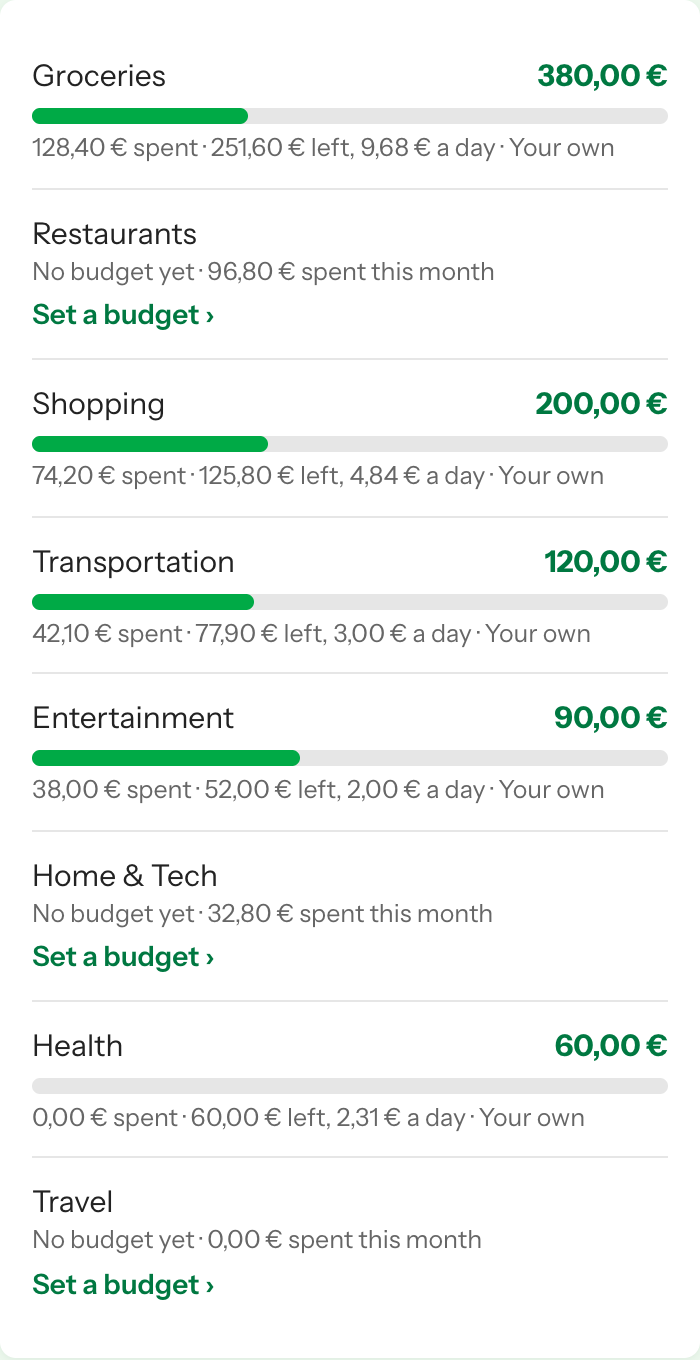
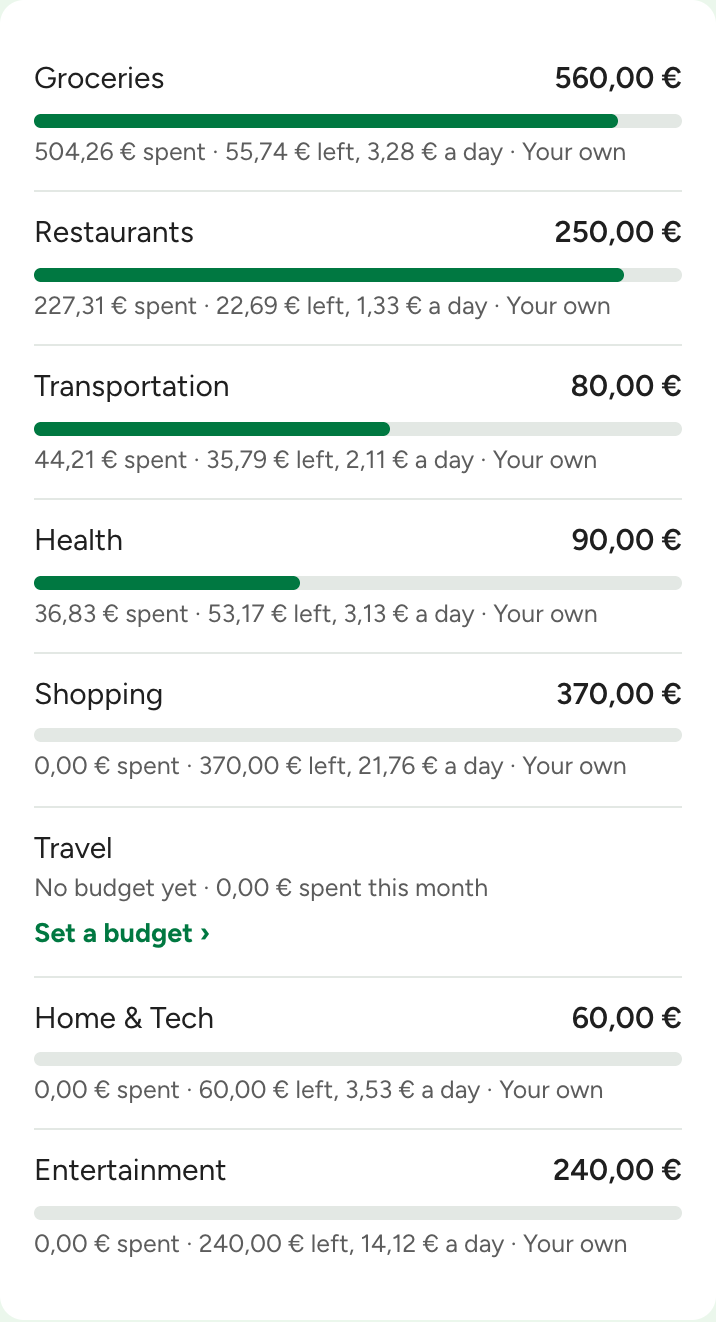
Mockup charts: four small fixes, and today's screens re-shot on the same data
- Chart 1: while dragging, the tooltip moves below the dot when it would sit on the Today dot.
- Chart 7: dots are drawn over the Today line, so it no longer notches the 13 and 15 Sep dots.
- Warning colour: the Oiva screens' own amber (#b45309 light, #f5a524 dark) instead of S-mobiili's #7a5200, which read brown.
- Now pictures: today's Oiva screens re-shot on the same real data as the new cards, in light and dark, shown by theme;
  no more dimmed light-only pictures with hand-written sample figures.

diff --git a/app/static/mockups/charts/index.html b/app/static/mockups/charts/index.html
@@ -10,29 +10,31 @@
 <link rel="icon" href="data:,">
 <link rel="stylesheet" href="/static/fonts/fonts.css">
 <style>
-/* One theme, taken from the app, nothing invented except the category scale:
+/* One theme, taken from the app, nothing invented except the category scale (the warning amber is the Oiva screens'):
    Light = S-mobiili's own tokens (app/templates/smobiili.html :root): page, card, ink, #222 strong text, muted, line, brand,
-   bright, mint, warn, the 8px card with its faint green shadow, green card titles and green amounts.
+   bright, mint, warn-bg, the 8px card with its faint green shadow, green card titles and green amounts.
    Dark = S-mobiili has no dark theme, so dark is the site's dark theme as it is on main (app/templates/base.html
-   prefers-color-scheme:dark): bg, card, ink, muted, line, brand, brand-ink, soft, warn, warn-bg, its 16px card with a 1px
+   prefers-color-scheme:dark): bg, card, ink, muted, line, brand, brand-ink, soft, warn-bg, its 16px card with a 1px
    border, and big amounts in ink (as on My money).
+   Warning = the Oiva screens' own "over" colour (app/static/oiva/screens.css --over on branch smobiili-oiva-screens, #b45309 light / #f5a524 dark): an amber that reads as a warning
+   in both modes, where S-mobiili's #7a5200 reads brown as a fill.
    Type = Instrument Sans (app/static/fonts/fonts.css) on S-mobiili's scale; chart text uses base.html's .kc sizes.
    Category scale c0-c7 (the one addition): S-mobiili's three greens, a teal and an olive green, then three greys for the
    rarer categories; every step is at least 3:1 on the card, and steps of like lightness differ in hue. In dark the first
    category is the site's dark brand green. Glyphs on a fill use the two brand-ink colours (#fff, #06140d). */
 :root{color-scheme:light;--page:#ebf7ec;--card:#fff;--ink:#363636;--strong:#222;--muted:#666;--line:#e6e6e6;--brand:#007841;
-  --bright:#00aa46;--brand-ink:#fff;--head:#007841;--mint:#d2fcd5;--warn:#7a5200;--warn-bg:#fff4d6;
-  --hero:#007841;--radius:8px;--edge:transparent;--shadow:0 1px 3px rgba(0,60,25,.05);--now-filter:none;
+  --bright:#00aa46;--brand-ink:#fff;--head:#007841;--mint:#d2fcd5;--warn:#b45309;--warn-bg:#fff4d6;
+  --hero:#007841;--radius:8px;--edge:transparent;--shadow:0 1px 3px rgba(0,60,25,.05);
   --c0:#004628;--c1:#007841;--c2:#00aa46;--c3:#0e8f6e;--c4:#5b8f1e;--c5:#4f5a55;--c6:#707b76;--c7:#8b9590;
-  --glyph-dark:#06140d;--glyph-light:#fff;--now-note:""}
+  --glyph-dark:#06140d;--glyph-light:#fff}
 @media (prefers-color-scheme:dark){:root:not([data-theme="light"]){color-scheme:dark;--page:#0f1513;--card:#18201d;--ink:#e8efeb;--strong:#e8efeb;
   --muted:#9aa8a1;--line:#2a3430;--brand:#2fae6f;--bright:#2fae6f;--brand-ink:#06140d;--head:#2fae6f;--mint:#1d2b24;
-  --warn:#f3c66b;--warn-bg:#2b2416;--hero:#e8efeb;--radius:16px;--edge:#2a3430;--shadow:none;--now-filter:brightness(.7);
-  --c0:#2fae6f;--c1:#8fe0ad;--c2:#1f8a55;--c3:#3fb3a6;--c4:#8fae4c;--c5:#9aa8a1;--c6:#7a8781;--c7:#5f6c66;--now-note:" · a light-only screenshot"}}
+  --warn:#f5a524;--warn-bg:#2b2416;--hero:#e8efeb;--radius:16px;--edge:#2a3430;--shadow:none;
+  --c0:#2fae6f;--c1:#8fe0ad;--c2:#1f8a55;--c3:#3fb3a6;--c4:#8fae4c;--c5:#9aa8a1;--c6:#7a8781;--c7:#5f6c66}}
 :root[data-theme="dark"]{color-scheme:dark;--page:#0f1513;--card:#18201d;--ink:#e8efeb;--strong:#e8efeb;
   --muted:#9aa8a1;--line:#2a3430;--brand:#2fae6f;--bright:#2fae6f;--brand-ink:#06140d;--head:#2fae6f;--mint:#1d2b24;
-  --warn:#f3c66b;--warn-bg:#2b2416;--hero:#e8efeb;--radius:16px;--edge:#2a3430;--shadow:none;--now-filter:brightness(.7);
-  --c0:#2fae6f;--c1:#8fe0ad;--c2:#1f8a55;--c3:#3fb3a6;--c4:#8fae4c;--c5:#9aa8a1;--c6:#7a8781;--c7:#5f6c66;--now-note:" · a light-only screenshot"}
+  --warn:#f5a524;--warn-bg:#2b2416;--hero:#e8efeb;--radius:16px;--edge:#2a3430;--shadow:none;
+  --c0:#2fae6f;--c1:#8fe0ad;--c2:#1f8a55;--c3:#3fb3a6;--c4:#8fae4c;--c5:#9aa8a1;--c6:#7a8781;--c7:#5f6c66}
 *{box-sizing:border-box}
 body{margin:0;background:var(--page);color:var(--ink);font-family:var(--font);-webkit-font-smoothing:antialiased}
 .wrap{max-width:780px;margin:0 auto;padding:20px 16px 60px}
@@ -44,8 +46,10 @@ section.pair>p{font-size:13px;color:var(--muted);margin:0 0 10px;line-height:1.4
 .cols{display:flex;gap:24px;flex-wrap:wrap;align-items:flex-start}
 .col{width:350px;max-width:100%}
 .col>.tag{font-size:11px;font-weight:700;letter-spacing:.06em;text-transform:uppercase;color:var(--muted);margin:0 0 6px}
-.col.now>.tag::after{content:var(--now-note);text-transform:none;letter-spacing:0;font-weight:400}
-.col.now img{width:350px;max-width:100%;display:block;border-radius:8px;border:1px solid var(--edge);filter:var(--now-filter)}
+.col.now img{width:350px;max-width:100%;display:block;border-radius:8px}
+.col.now img.dk{display:none}
+@media (prefers-color-scheme:dark){:root:not([data-theme="light"]) .col.now img.lt{display:none}:root:not([data-theme="light"]) .col.now img.dk{display:block}}
+:root[data-theme="dark"] .col.now img.lt{display:none}:root[data-theme="dark"] .col.now img.dk{display:block}
 
 /* the new cards */
 .card{background:var(--card);border:1px solid var(--edge);border-radius:var(--radius);box-shadow:var(--shadow);padding:18px 16px 16px}
@@ -93,7 +97,7 @@ svg.ch text{font-size:11px;fill:var(--muted)}
 <body>
 <div class="wrap">
   <h1>Oiva's charts, fintech style</h1>
-  <p class="intro" id="intro">Left: the chart on the Oiva screens today, with the hand-written sample figures it was built with (not the data set). Right: Antti's own transactions and his real peer group from the hackathon data set, redrawn after Revolut, Monzo, Copilot, N26 and Lunar, in S-mobiili's font and greens. Mockup only.</p>
+  <p class="intro" id="intro">Left: the chart on the Oiva screens today, shot on the same data as the right and in the same theme. Right: Antti's own transactions and his real peer group from the hackathon data set, redrawn after Revolut, Monzo, Copilot, N26 and Lunar, in S-mobiili's font and greens. Mockup only.</p>
   <div class="theme" role="group" aria-label="Colour theme">Theme
     <button type="button" data-t="system">System</button><button type="button" data-t="light">Light</button><button type="button" data-t="dark">Dark</button></div>
   <div class="notes" id="notes" hidden></div>
@@ -101,49 +105,49 @@ svg.ch text{font-size:11px;fill:var(--muted)}
   <section class="pair" id="p-trend">
     <h2>1 · Spending this month (Kulutus: Your pace)</h2>
     <p>Revolut/Monzo: the amount is the headline, the line sits under it; drag across the chart to read a day. Copilot: the budget is a target to beat, with a projection.</p>
-    <div class="cols"><div class="col now"><p class="tag">Now: today's screen and its hand-written sample figures</p><img src="now/spend-card1.png" alt="Today's pace chart"></div>
+    <div class="cols"><div class="col now"><p class="tag">Now: today's screen, on the same data</p><img class="lt" src="now/spend-card1.png" alt="Today's pace chart"><img class="dk" src="now/spend-card1-dark.png" alt="Today's pace chart, dark"></div>
       <div class="col"><p class="tag">New</p><div class="card rel" id="trend"></div></div></div>
   </section>
 
   <section class="pair" id="p-cats">
     <h2>2 · Where it went (Kulutus: donut)</h2>
     <p>Revolut/Lunar: categories as a list with round icons, share and amount; Monzo: one stacked bar instead of a ring, so the parts read as lengths.</p>
-    <div class="cols"><div class="col now"><p class="tag">Now: today's screen and its hand-written sample figures</p><img src="now/spend-card2.png" alt="Today's donut"></div>
+    <div class="cols"><div class="col now"><p class="tag">Now: today's screen, on the same data</p><img class="lt" src="now/spend-card2.png" alt="Today's donut"><img class="dk" src="now/spend-card2-dark.png" alt="Today's donut, dark"></div>
       <div class="col"><p class="tag">New</p><div class="card" id="cats"></div></div></div>
   </section>
 
   <section class="pair" id="p-budget">
     <h2>3 · Budgets and pace (Budjetti)</h2>
     <p>Copilot: each bar knows the date. The tick is where an even pace would be today; a bar in the warning colour means spending faster than an even pace. Monzo: one "left to spend" number with a per-day figure.</p>
-    <div class="cols"><div class="col now"><p class="tag">Now: today's screen and its hand-written sample figures</p><img src="now/budget-card1.png" alt="Today's budget list"></div>
+    <div class="cols"><div class="col now"><p class="tag">Now: today's screen, on the same data</p><img class="lt" src="now/budget-card1.png" alt="Today's budget list"><img class="dk" src="now/budget-card1-dark.png" alt="Today's budget list, dark"></div>
       <div class="col"><p class="tag">New</p><div class="card" id="budget"></div></div></div>
   </section>
 
   <section class="pair" id="p-sit">
     <h2>4 · People like me, at a glance (Vertailu)</h2>
     <p id="sit-blurb">N26/Revolut insights, condensed: all six figures on one scale of the group, so you see where you sit before reading six cards.</p>
-    <div class="cols"><div class="col now"><p class="tag">Now: today's screen and its hand-written sample figures</p><img src="now/compare-card0.png" alt="Today's comparison header"></div>
+    <div class="cols"><div class="col now"><p class="tag">Now: today's screen, on the same data</p><img class="lt" src="now/compare-card0.png" alt="Today's comparison header"><img class="dk" src="now/compare-card0-dark.png" alt="Today's comparison header, dark"></div>
       <div class="col"><p class="tag">New</p><div class="card" id="sit"></div></div></div>
   </section>
 
   <section class="pair" id="p-fig">
     <h2>5 · One figure against the group (Vertailu: Income)</h2>
     <p>Revolut's price-range bar: labels sit on the chart, You and Typical as pins, the middle half as the thicker band.</p>
-    <div class="cols"><div class="col now"><p class="tag">Now: today's screen and its hand-written sample figures</p><img src="now/compare-card1.png" alt="Today's income comparison"></div>
+    <div class="cols"><div class="col now"><p class="tag">Now: today's screen, on the same data</p><img class="lt" src="now/compare-card1.png" alt="Today's income comparison"><img class="dk" src="now/compare-card1-dark.png" alt="Today's income comparison, dark"></div>
       <div class="col"><p class="tag">New</p><div class="card" id="fig"></div></div></div>
   </section>
 
   <section class="pair" id="p-income">
     <h2>6 · Where the salary goes (Laskut: header)</h2>
     <p>Monzo "left to spend": what is left after the fixed payments is the headline, the salary split into one bar.</p>
-    <div class="cols"><div class="col now"><p class="tag">Now: today's screen and its hand-written sample figures</p><img src="now/bills-card0.png" alt="Today's bills header"></div>
+    <div class="cols"><div class="col now"><p class="tag">Now: today's screen, on the same data</p><img class="lt" src="now/bills-card0.png" alt="Today's bills header"><img class="dk" src="now/bills-card0-dark.png" alt="Today's bills header, dark"></div>
       <div class="col"><p class="tag">New</p><div class="card" id="income"></div></div></div>
   </section>
 
   <section class="pair" id="p-cal">
     <h2>7 · The month's payments (Laskut: Going out / Coming in)</h2>
     <p>Monzo's balance graph marks upcoming bills on the month, N26 lists them with dates: one strip per payment, today as a line.</p>
-    <div class="cols"><div class="col now"><p class="tag">Now: today's screen and its hand-written sample figures</p><img src="now/bills-card1.png" alt="Today's bills list"></div>
+    <div class="cols"><div class="col now"><p class="tag">Now: today's screen, on the same data</p><img class="lt" src="now/bills-card1.png" alt="Today's bills list"><img class="dk" src="now/bills-card1-dark.png" alt="Today's bills list, dark"></div>
       <div class="col"><p class="tag">New</p><div class="card" id="cal"></div></div></div>
   </section>
 </div>
@@ -281,7 +285,11 @@ svg.ch text{font-size:11px;fill:var(--muted)}
       const hr = host.getBoundingClientRect(), half = tip.offsetWidth / 2;  // svg has no offsetLeft: measure against the card
       tip.style.left = Math.min(Math.max(r.left - hr.left + x(d) * r.width / W, half + 4), hr.width - half - 4) + "px";
       const dy = r.top - hr.top + y(v) * r.height / H, th = tip.offsetHeight;  // above the dot, or below it when there is no room
-      tip.style.top = (dy - 12 - th > r.top - hr.top ? dy - 12 : dy + 12 + th) + "px";
+      // nor when it would sit on the Today dot (with its halo): then below, where the line is lower
+      const sc = r.width / W, tx = r.left - hr.left + x(TODAY) * sc, ty = r.top - hr.top + y(spent) * sc, tr0 = 9 * sc + 2;
+      const lx = parseFloat(tip.style.left), onToday = b => d !== TODAY && lx - half < tx + tr0 && lx + half > tx - tr0 && b - th < ty + tr0 && b > ty - tr0;
+      const above = dy - 12, below = dy + 12 + th;
+      tip.style.top = (above - th > r.top - hr.top && !(onToday(above) && !onToday(below)) ? above : below) + "px";
       const tr = tip.getBoundingClientRect();  // a label under the tooltip steps back while it is there
       [budLab, projLab].forEach(t => { const b = t.getBoundingClientRect();
         t.style.opacity = b.right > tr.left && b.left < tr.right && b.bottom > tr.top && b.top < tr.bottom ? 0 : 1; });
@@ -408,27 +416,30 @@ svg.ch text{font-size:11px;fill:var(--muted)}
     const x = d => x0 + (d - 1) / (DAYS - 1) * (x1 - x0);
     const svg = el("svg", {class: "ch", viewBox: `0 0 ${W} ${H}`, role: "img", "aria-label": `${MONTH_NAME}'s regular payments by day`});
     for (let d = 1; d <= DAYS; d += 7) if (Math.abs(d - TODAY) > 1) svg.appendChild(el("line", {x1: x(d), x2: x(d), y1: T - 4, y2: H - 18, stroke: css("line")}));
+    // the dots go in their own layer above the Today line, so the line never cuts into a dot
+    const marks = el("g", {});  // lane lines and bands go under the Today line, dots and labels over it
     lanes.forEach((l, i) => {
       const yc = T + i * lane + lane / 2;
-      svg.appendChild(el("text", {x: 0, y: yc - 2, style: "font-size:12.5px;fill:" + css("strong")}, l.name));
-      svg.appendChild(el("text", {x: 0, y: yc + 13, style: "font-size:11.5px;fill:" + (l.incoming ? css("brand") : css("muted")) + (l.incoming ? ";font-weight:600" : "")}, l.sub));
+      marks.appendChild(el("text", {x: 0, y: yc - 2, style: "font-size:12.5px;fill:" + css("strong")}, l.name));
+      marks.appendChild(el("text", {x: 0, y: yc + 13, style: "font-size:11.5px;fill:" + (l.incoming ? css("brand") : css("muted")) + (l.incoming ? ";font-weight:600" : "")}, l.sub));
       svg.appendChild(el("line", {x1: x0, x2: x1, y1: yc, y2: yc, stroke: css("line"), "stroke-width": 1}));
       if (l.from) {
         svg.appendChild(el("line", {x1: x(l.from), x2: x(l.to), y1: yc, y2: yc, stroke: css("brand"), "stroke-opacity": .35, "stroke-width": 8, "stroke-linecap": "round"}));
-        (l.paidDays || []).forEach(d => { svg.appendChild(el("circle", {cx: x(d), cy: yc, r: 6, fill: css("brand"), stroke: css("card"), "stroke-width": 2}));
-          svg.appendChild(el("path", {d: `M${x(d) - 2.6},${yc}l1.8,1.8l3.6,-3.6`, fill: "none", stroke: inkOn(css("brand")), "stroke-width": 1.5, "stroke-linecap": "round"})); });
+        (l.paidDays || []).forEach(d => { marks.appendChild(el("circle", {cx: x(d), cy: yc, r: 6, fill: css("brand"), stroke: css("card"), "stroke-width": 2}));
+          marks.appendChild(el("path", {d: `M${x(d) - 2.6},${yc}l1.8,1.8l3.6,-3.6`, fill: "none", stroke: inkOn(css("brand")), "stroke-width": 1.5, "stroke-linecap": "round"})); });
       } else {
         const past = l.day <= TODAY, fill = l.incoming ? css("bright") : css("brand");
-        svg.appendChild(el("circle", {cx: x(l.day), cy: yc, r: 7, fill, stroke: css("card"), "stroke-width": 2}));
-        if (past) svg.appendChild(el("path", {d: `M${x(l.day) - 3},${yc}l2,2l4,-4`, fill: "none", stroke: inkOn(fill), "stroke-width": 1.6, "stroke-linecap": "round"}));
+        marks.appendChild(el("circle", {cx: x(l.day), cy: yc, r: 7, fill, stroke: css("card"), "stroke-width": 2}));
+        if (past) marks.appendChild(el("path", {d: `M${x(l.day) - 3},${yc}l2,2l4,-4`, fill: "none", stroke: inkOn(fill), "stroke-width": 1.6, "stroke-linecap": "round"}));
         // paid: the date sits above its dot, left of today; still to come: to the right of the dot
-        svg.appendChild(el("text", past ? {x: x(l.day), y: yc - 11, "text-anchor": "middle", style: `font-size:11.5px;fill:${css("muted")}`}
+        marks.appendChild(el("text", past ? {x: x(l.day), y: yc - 11, "text-anchor": "middle", style: `font-size:11.5px;fill:${css("muted")}`}
           : {x: x(l.day) + 11, y: yc + 4, style: `font-size:11.5px;font-weight:600;paint-order:stroke;stroke:${css("card")};stroke-width:4px;fill:${css("strong")}`}, (past ? "paid " : "") + l.day + " " + M));
       }
     });
-    // today: on top of the lanes, with a card-coloured halo so it stays clear of the dots
+    // today: over the lane lines and bands, with a card-coloured halo; under the dots, so it never cuts into one
     svg.appendChild(el("line", {x1: x(TODAY), x2: x(TODAY), y1: T - 8, y2: H - 18, stroke: css("card"), "stroke-width": 4}));
     svg.appendChild(el("line", {x1: x(TODAY), x2: x(TODAY), y1: T - 8, y2: H - 18, stroke: css("strong"), "stroke-width": 1, "stroke-dasharray": "3 3"}));
+    svg.appendChild(marks);
     svg.appendChild(el("text", {x: x(TODAY), y: T - 12, "text-anchor": "middle", style: "font-size:11.5px;font-weight:600;fill:" + css("strong")}, "Today"));
     for (let d = 1; d <= DAYS; d += 7) svg.appendChild(el("text", {x: x(d), y: H - 4, "text-anchor": "middle"}, String(d)));
     const soon = lanes.filter(l => !l.from && l.day > TODAY).sort((a, b) => a.day - b.day).map(l => `${l.name.toLowerCase()} on ${l.day} ${M}`);
